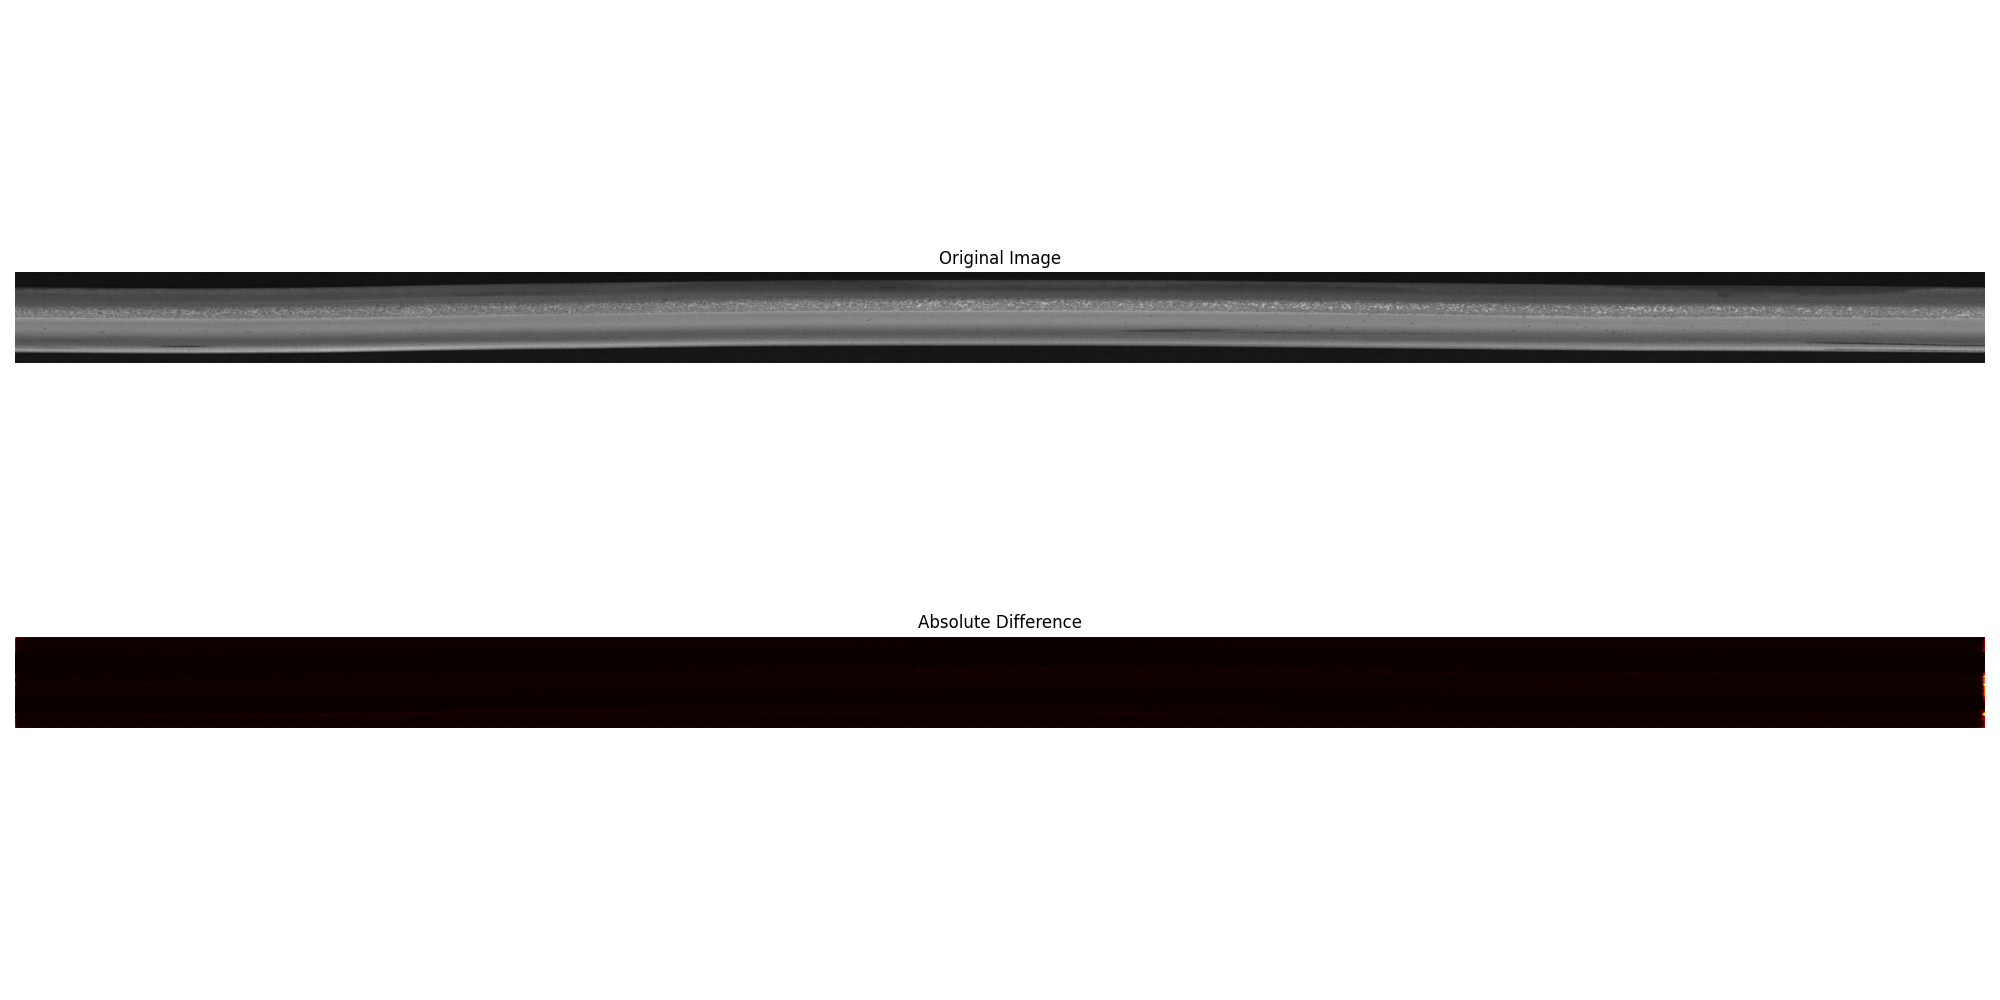
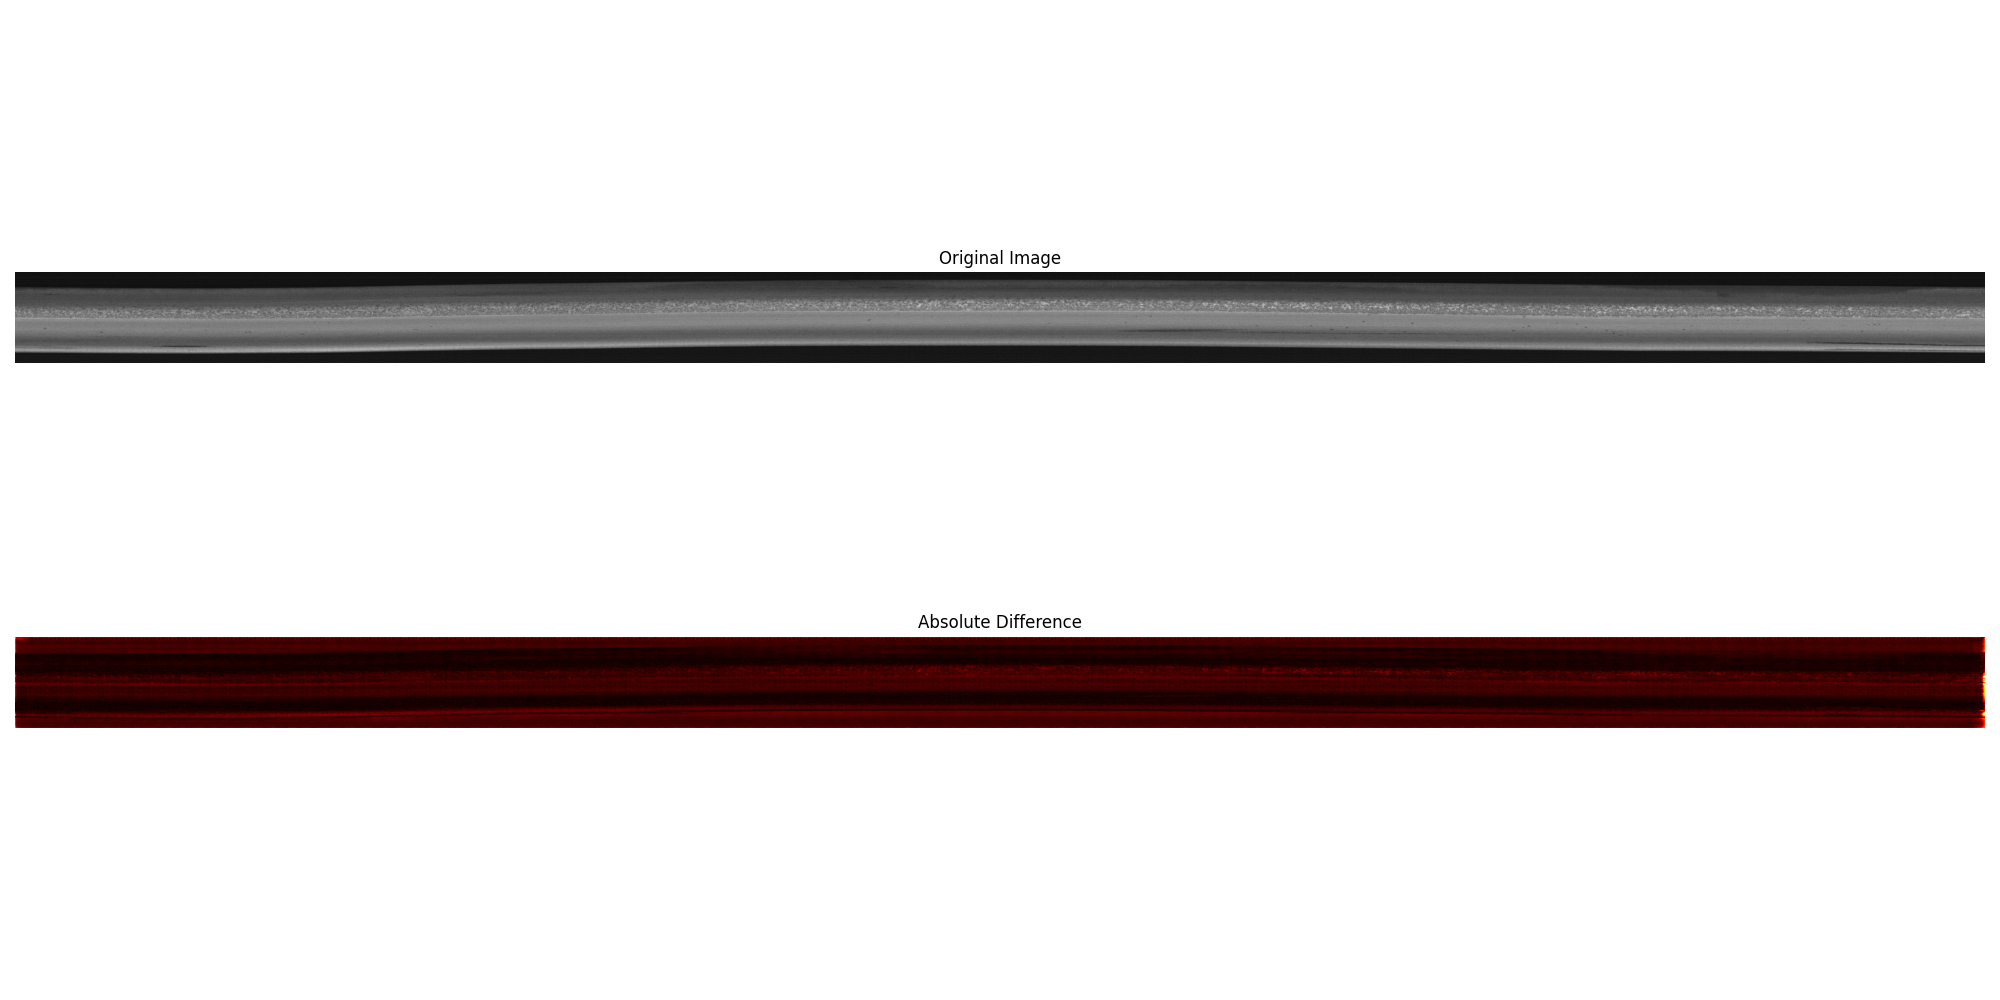
gitignore setup

Changed region(s): [[0.0, 0.62, 0.992, 0.744]]

diff --git a/inference.py b/inference.py
@@ -39,7 +39,7 @@ def process_image(model, device, image_path, transform):
     reconstructed_img = denormalize(reconstructed_tensor.cpu()[0, 0]).numpy()
     
     # Compute the absolute difference at the resized resolution
-    diff = np.abs((original_resized - reconstructed_img)**2)
+    diff = np.abs((original_resized - reconstructed_img)*2)
     
     # Upscale the diff image to the original image size
     orig_h, orig_w = original_full.shape
